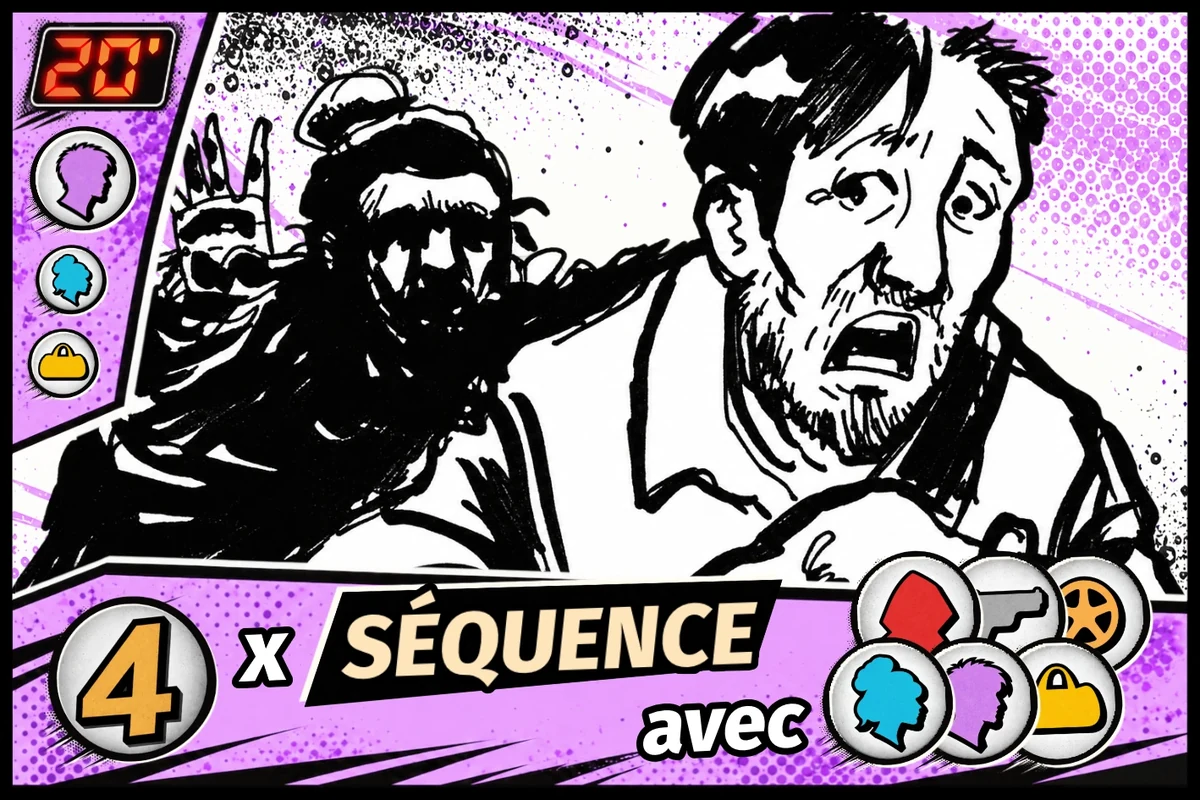
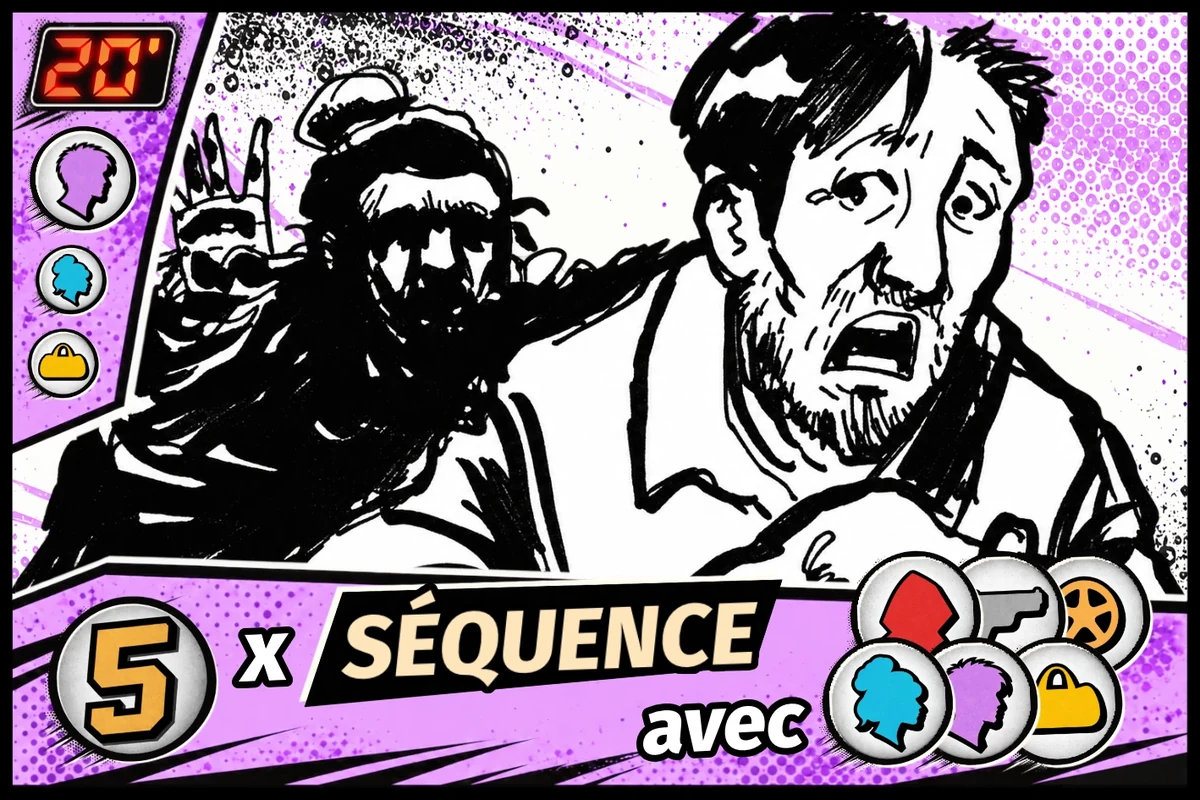
v4.1.28 - L4 mis à jour
- L4 mis à jour : nouvelle image, et 5 points (au lieu de 4) par séquence avec les six icônes.

Claude-Session: https://claude.ai/code/session_01SEL89cNhQA7nZJAfcMueK5

Changed region(s): [[0.0617, 0.75, 0.1542, 0.9375]]

diff --git a/js/data.js b/js/data.js
@@ -1053,7 +1053,7 @@ const PLANS_41 = [
   PL(1, 10, ['OBJET', 'ARME', 'HEROINE'], OBJ.seqAvec(5, 'AVEC', 'OBJET', 3)),
   PL(2, 10, ['ALLIE', 'VEHICULE', 'ENNEMI'], OBJ.seqAvec(3, 'AVEC', 'RACCORD')),
   PL(3, 10, ['HEROINE', 'ENNEMI', 'ARME'], OBJ.seqVoisines(4, 'APRES')),
-  PL(4, 20, ['ALLIE', 'HEROINE', 'OBJET'], OBJ.seqAvec(4, 'AVEC', 'ENNEMI+ARME+VEHICULE+HEROINE+ALLIE+OBJET')),
+  PL(4, 20, ['ALLIE', 'HEROINE', 'OBJET'], OBJ.seqAvec(5, 'AVEC', 'ENNEMI+ARME+VEHICULE+HEROINE+ALLIE+OBJET')),
   // « Chaque RACCORD vaut 2 » : 2 points par Raccord du montage, que le L5
   // marque lui-même — en plus de ce que chaque Raccord rapporte.
   PL(5, 20, ['OBJET', 'HEROINE', 'ALLIE', 'VEHICULE'], OBJ.raccord(2, 'MONTAGE')),

diff --git a/js/version.js b/js/version.js
@@ -1,8 +1,15 @@
 // Compteur de version — incrémenter à chaque modification livrée.
-export const VERSION = '4.1.27';
-export const BUILD_DATE = '2026-11-16 21:08';
+export const VERSION = '4.1.28';
+export const BUILD_DATE = '2026-11-20 15:52';
 
 export const CHANGELOG = [
+  {
+    v: '4.1.28',
+    date: '20/11/2026',
+    items: [
+      "<b>L4 mis à jour</b> : nouvelle image, et 5 points (au lieu de 4) par séquence avec les six icônes.",
+    ],
+  },
   {
     v: '4.1.27',
     date: '16/11/2026',

diff --git a/sw.js b/sw.js
@@ -7,7 +7,7 @@
 // site, et ne se rabat sur sa copie en cache qu'en cas de coupure — le site
 // reste donc consultable hors ligne, mais n'est jamais périmé en ligne.
 
-const CACHE = 'edit-4.1.27';
+const CACHE = 'edit-4.1.28';
 
 self.addEventListener('install', () => {
   // La nouvelle version du worker prend la main sans attendre.
